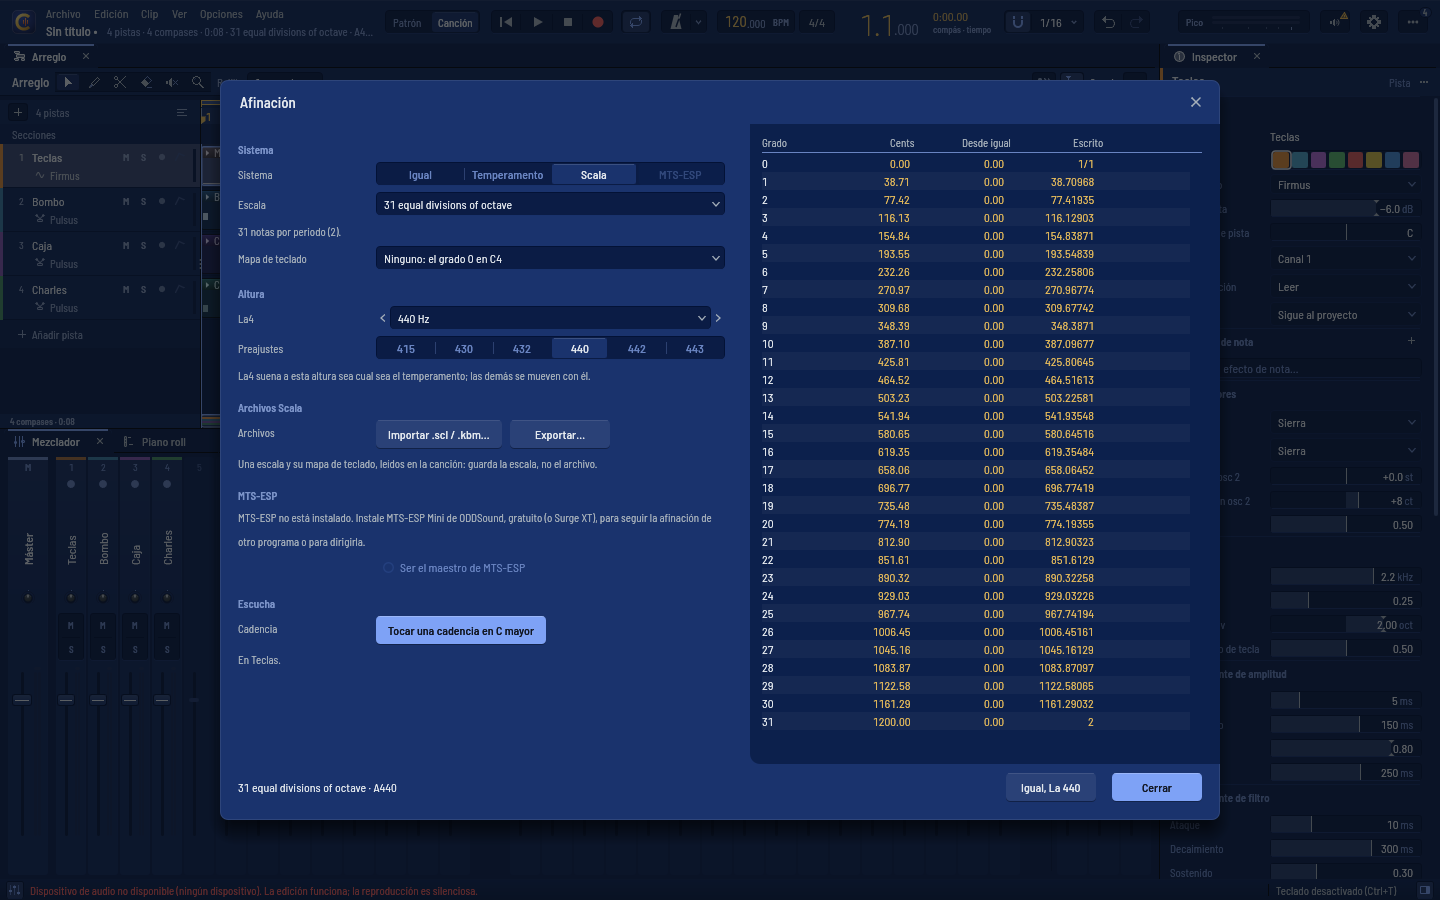
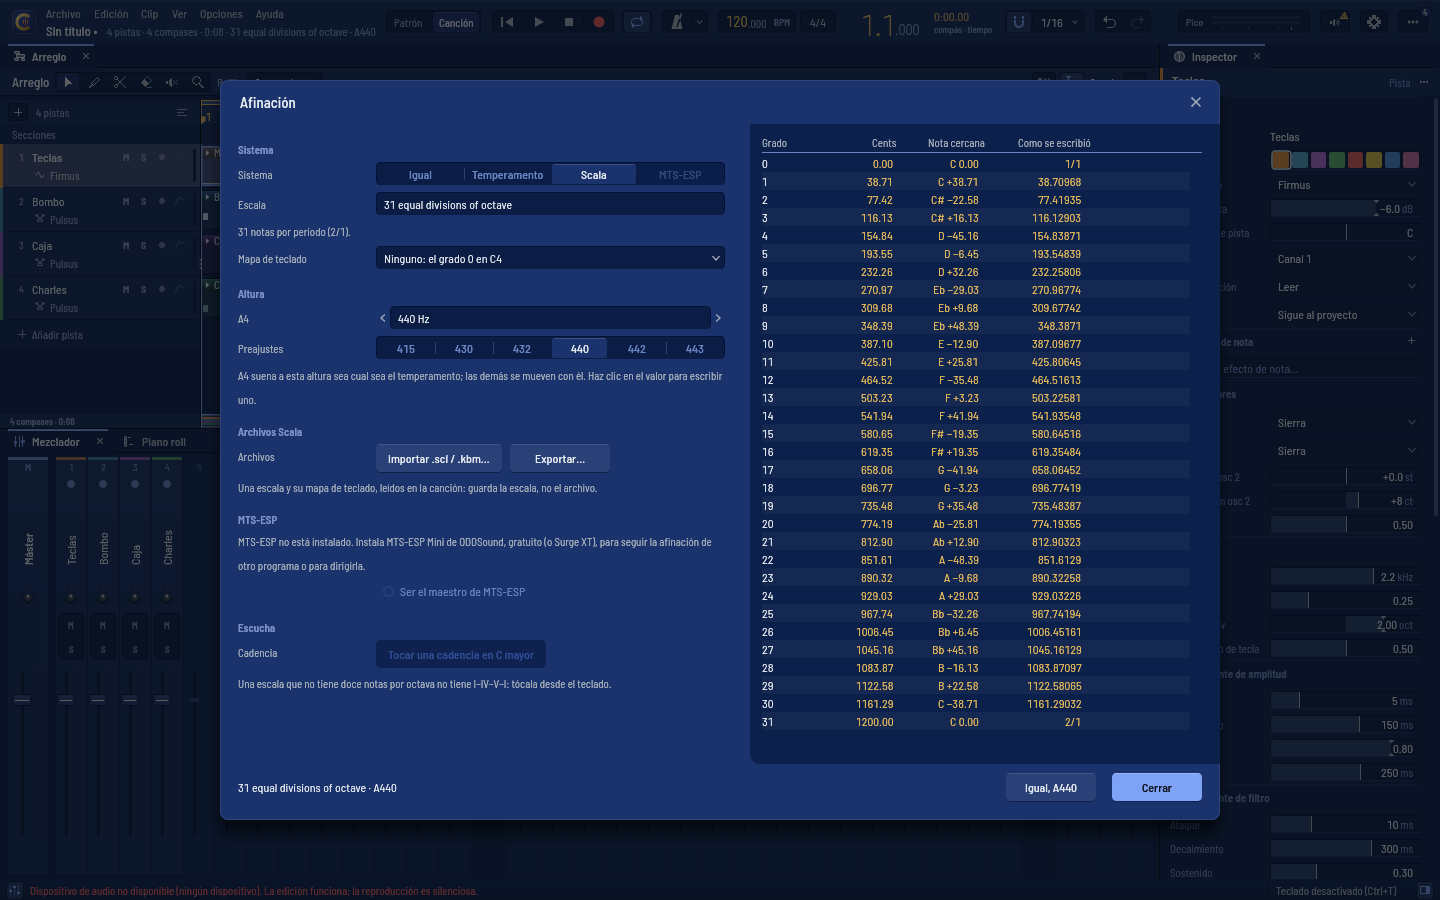
r42 fix-ui: the tuning pictures re-shot from this head (EN and ES, Night and Paper, 100 and 200 %, a narrow window); the report

diff --git a/crates/cantus-ui/examples/shoot_tuning.rs b/crates/cantus-ui/examples/shoot_tuning.rs
@@ -26,9 +26,10 @@ use cantus_ui::views::workspace_device as device;
 use cantus_ui::{raster, welcome_project, CantusApp};
 use std::path::{Path, PathBuf};
 
-const KINDS: [&str; 9] = [
+const KINDS: [&str; 10] = [
     "equal",
     "werck",
+    "narrow",
     "follow",
     "scale",
     "track",
@@ -38,6 +39,8 @@ const KINDS: [&str; 9] = [
     "chorda-plain",
 ];
 const SIZE: egui::Vec2 = egui::vec2(1440.0, 900.0);
+/// A narrow screen (r42 fix-ui): the window as one scrolling column.
+const NARROW: egui::Vec2 = egui::vec2(760.0, 860.0);
 
 fn tests_dir() -> PathBuf {
     PathBuf::from(env!("CARGO_MANIFEST_DIR")).join("../../../research/tuning-library-tests")
@@ -56,9 +59,9 @@ fn set_up(app: &mut CantusApp, kind: &str) -> Option<Target> {
     let werck = temper(Temperament::WerckmeisterIii, 3, false, 415.0);
     match kind {
         "equal" => Some(Target::Project),
-        "werck" | "inspector" | "chorda" => {
+        "werck" | "narrow" | "inspector" | "chorda" => {
             tuning::set(app, Target::Project, werck);
-            (kind == "werck").then_some(Target::Project)
+            (kind == "werck" || kind == "narrow").then_some(Target::Project)
         }
         "follow" => {
             app.exec(Command::SetProjectKey {
@@ -150,7 +153,7 @@ fn shoot(dir: &Path, kind: &str, dark: bool, zoom: f32) {
     let mut frame = 0;
     raster::shoot_at(
         &ctx,
-        SIZE,
+        if kind == "narrow" { NARROW } else { SIZE },
         zoom,
         12,
         Some(&path),

diff --git a/docs/DEVELOPING.md b/docs/DEVELOPING.md
@@ -321,7 +321,7 @@ output means. Python ones take their packages from the folder's `requirements.tx
 | `cantus-dsp/examples/fides_sounds.rs`, `cantus-ui/examples/fides_listen.rs` | Fides (round 41, ADR 0150): every exciter on every resonator's level and partials straight from the DSP (`-- levels`, `-- describe <exc> <res>`, `-- wav <dir>`); every factory preset rendered through the engine as WAV and its level fitted to its role (`-- <dir> [fit]`) <!-- r41:fides --> |
 | `crates/cantus-ui/examples/nitor_listen.rs` | <!-- r41:nitor --> Nitor's presets for the ear: each beside its dry source, both at −18 LUFS, as WAV pairs (`cargo run -p cantus-ui --example nitor_listen -- <dir>`) |
 | `crates/cantus-ui/examples/shoot_nitor.rs` | <!-- r41:nitor --> Nitor's design sheet: its states in Slate English and Paper Spanish, 75–200 %, at rest and playing (`cargo run -p cantus-ui --example shoot_nitor -- <dir>`) |
-| `crates/cantus-ui/examples/shoot_tuning.rs` | <!-- r42:tuning-face --> Options ▸ Tuning…'s design sheet: its states (equal, a temperament, following the song's key, a Scala scale, a track's own), the inspector's override row and Chorda's tuning line, in Slate Lapis Night and Paper at 100 and 200 % (`cargo run -p cantus-ui --example shoot_tuning -- <dir> [kind…] [--zoom=1,2] [--theme=night\|paper] [--lang=es]`) |
+| `crates/cantus-ui/examples/shoot_tuning.rs` | <!-- r42:tuning-face --> Options ▸ Tuning…'s design sheet: its states (equal, a temperament, the same on a narrow screen, following the song's key, a Scala scale, a track's own), the inspector's override row and Chorda's tuning line, in Slate Lapis Night and Paper at 100 and 200 % (`cargo run -p cantus-ui --example shoot_tuning -- <dir> [kind…] [--zoom=1,2] [--theme=night\|paper] [--lang=es]`) |
 | [`tools/video/`](../tools/video/README.md) | the launch video (round 41), from a clean machine to the cut — `voice/`: the takes (`takes_eleven.py` with its character ledger through `eleven-api.ps1`, whose key stays in Windows Credential Manager; `eleven_voices.ps1`; Chatterbox `takes.py`/`breathe.py`/`ref.py`; Qwen `takes_qwen.py`/`qwen_run.sh`), the gate (`gate.py`: Whisper word for word, levels, pace), the listening pages (`abpage.py`, `compare.py`, `page_shot.sh`), the chosen track (`choose.py`), the pins (`requirements*.txt`, `models.txt`, `fetch_models.sh`); `cards/`: the titles and end card (HTML rendered by headless Chrome, `render.mjs`, `view.py`); `film/`: `draft.sh`, `draft3.sh`, `int_worktree.sh`, `gently.sh`, `watchdog.sh`, `check_audio.sh`, `cut_frames.sh`, `heart_diff.sh`, `sheet.sh`, `review_sheet.sh`, the pinned ffmpeg (`ffmpeg.txt`); with `crates/cantus-ui/examples/film.rs` (the picture) and `soundtrack.rs` (the mix, in Cantus) |
 
 The design for round 41's micro-tuning is [`research/instruments/microtuning.md`](../research/instruments/microtuning.md).

diff --git a/docs/round42/fix-ui.md b/docs/round42/fix-ui.md
@@ -71,7 +71,11 @@ holds it (written to fail first where the finding was testable).
 
 ## Pictures
 
-`docs/round42/tuning-face/`, made by `cargo run -p cantus-ui --example shoot_tuning --
-<dir> [--lang=es]` from this branch's head: the window (equal, werck, follow, scale, track),
-the inspector row, and Chorda's card (the project's, its own, plain), Slate Lapis Night and
-Paper, 100 % and 200 %, English and Spanish.
+`docs/round42/tuning-face/` (80, replacing the builder's 24), made from this branch's head by
+`cargo run -p cantus-ui --example shoot_tuning -- <dir>` and again with `--lang=es`: the
+window (equal, werck, **narrow** — new: the same in a 760-point room, one scrolling column —
+follow, scale, track), the inspector row, and Chorda's card (the project's, its own, plain),
+Slate Lapis Night and Paper, 100 % and 200 %, English and Spanish. Looked at: one or more of
+every kind in both themes, both languages and both zooms (werck, follow, scale, track,
+equal, inspector, narrow ×2, Chorda's three cards ×5); the rest are the same views in the
+other theme or zoom, and the whole-label tests read every one of their words.
